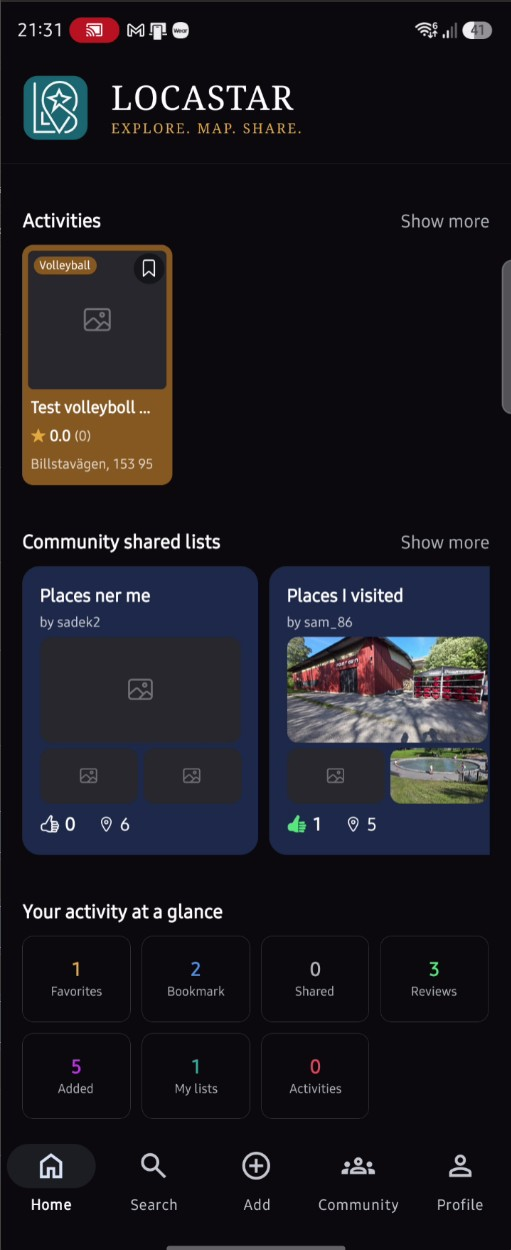
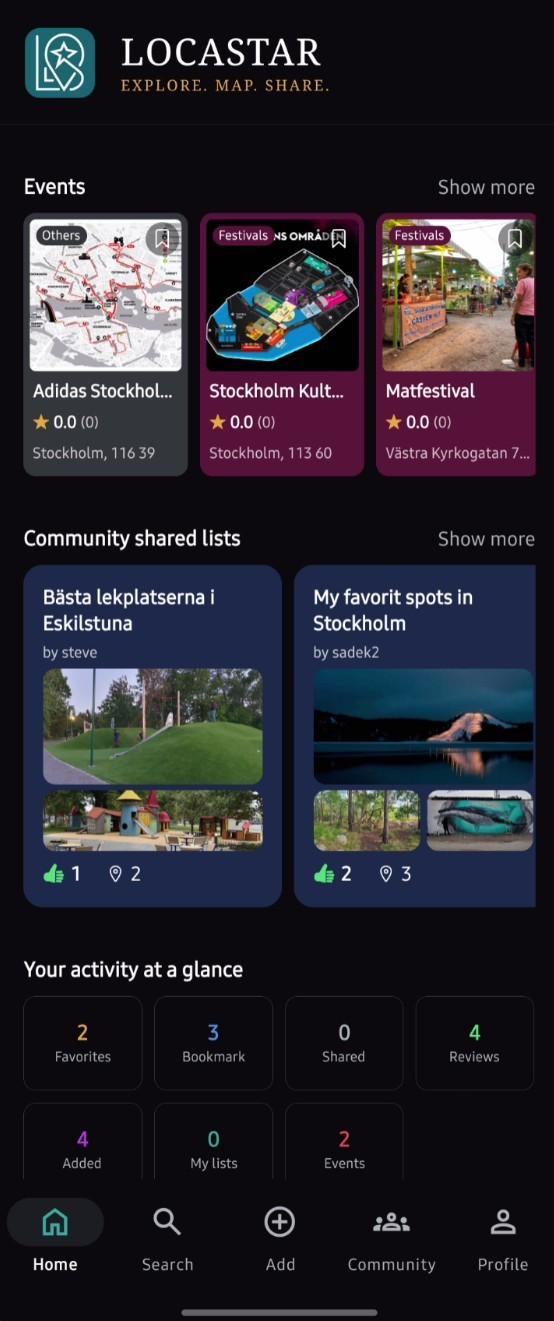
New app mockups on the home page, and alt text that matches them
The owner replaced both screenshots. Renamed to the filenames the page
already references rather than pointing the page at "Home Page.jpg" and
"Search page.jpg" — a space in an asset URL has to be percent-encoded to
work, and there is nothing to gain from finding that out later.

The alt text was describing the old pair: "showing places near you" and
"showing a place in detail". It is now the home screen and a screen of
search results, and it happens to be the *search* shot that shows places
near you, so the two descriptions were close to swapped. Rewritten in
both languages.

Same aspect ratio as the images they replace (0.419 against 0.409), so
object-fit: cover crops them the same way it always did.

diff --git a/apps/web/src/i18n/ui.ts b/apps/web/src/i18n/ui.ts
@@ -528,8 +528,8 @@ export const ui = {
     'del.keptSmallSuffix': 'first — afterwards there is no account to match it to.',
     'add.metaTitle': 'Add a place | LocaStar',
     'add.metaDesc': 'Add a court, a trail, a slope or a festival the map is missing. It goes live the moment you submit — there is no approval queue.',
-    'home.shot1Alt': 'The LocaStar app showing places near you',
-    'home.shot2Alt': 'The LocaStar app showing a place in detail',
+    'home.shot1Alt': 'The LocaStar app home screen, with events and lists people have shared',
+    'home.shot2Alt': 'The LocaStar app showing search results, nearest first',
     'loc.inOneList': 'Already in your list “{name}”.',
     'loc.inLists': 'Already in {count} of your lists.',
     'acct.sent': 'SENT',
@@ -1110,8 +1110,8 @@ export const ui = {
     'del.keptSmallSuffix': 'först; efteråt finns inget konto att matcha det mot.',
     'add.metaTitle': 'Lägg till en plats | LocaStar',
     'add.metaDesc': 'Lägg till en plan, en led, en backe eller en festival som kartan saknar. Den går live i samma stund du skickar in — ingen godkännandekö.',
-    'home.shot1Alt': 'LocaStar-appen som visar platser nära dig',
-    'home.shot2Alt': 'LocaStar-appen som visar en plats i detalj',
+    'home.shot1Alt': 'LocaStar-appens startskärm, med evenemang och listor som andra har delat',
+    'home.shot2Alt': 'LocaStar-appen som visar sökresultat, närmast först',
     'loc.inOneList': 'Finns redan i din lista ”{name}”.',
     'loc.inLists': 'Finns redan i {count} av dina listor.',
     'acct.sent': 'SKICKAD',
